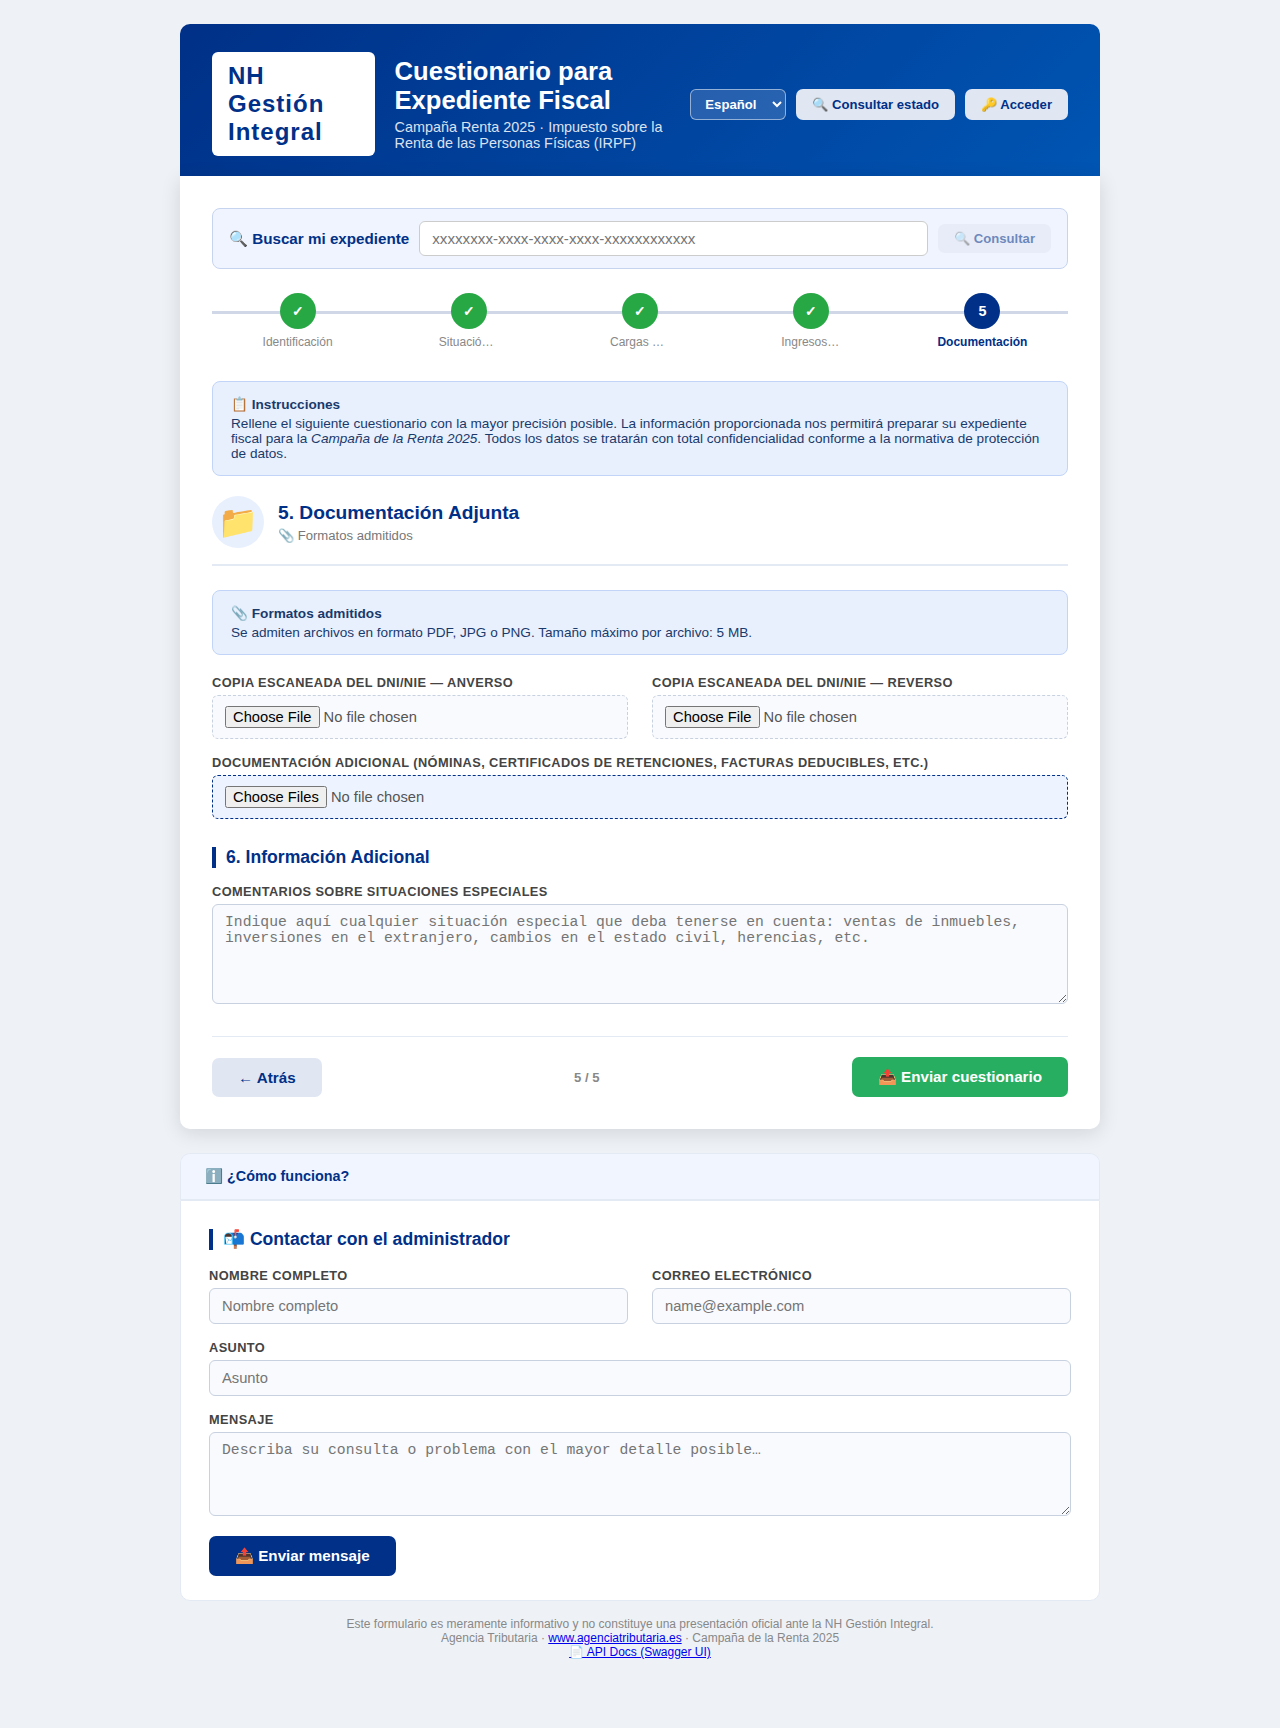
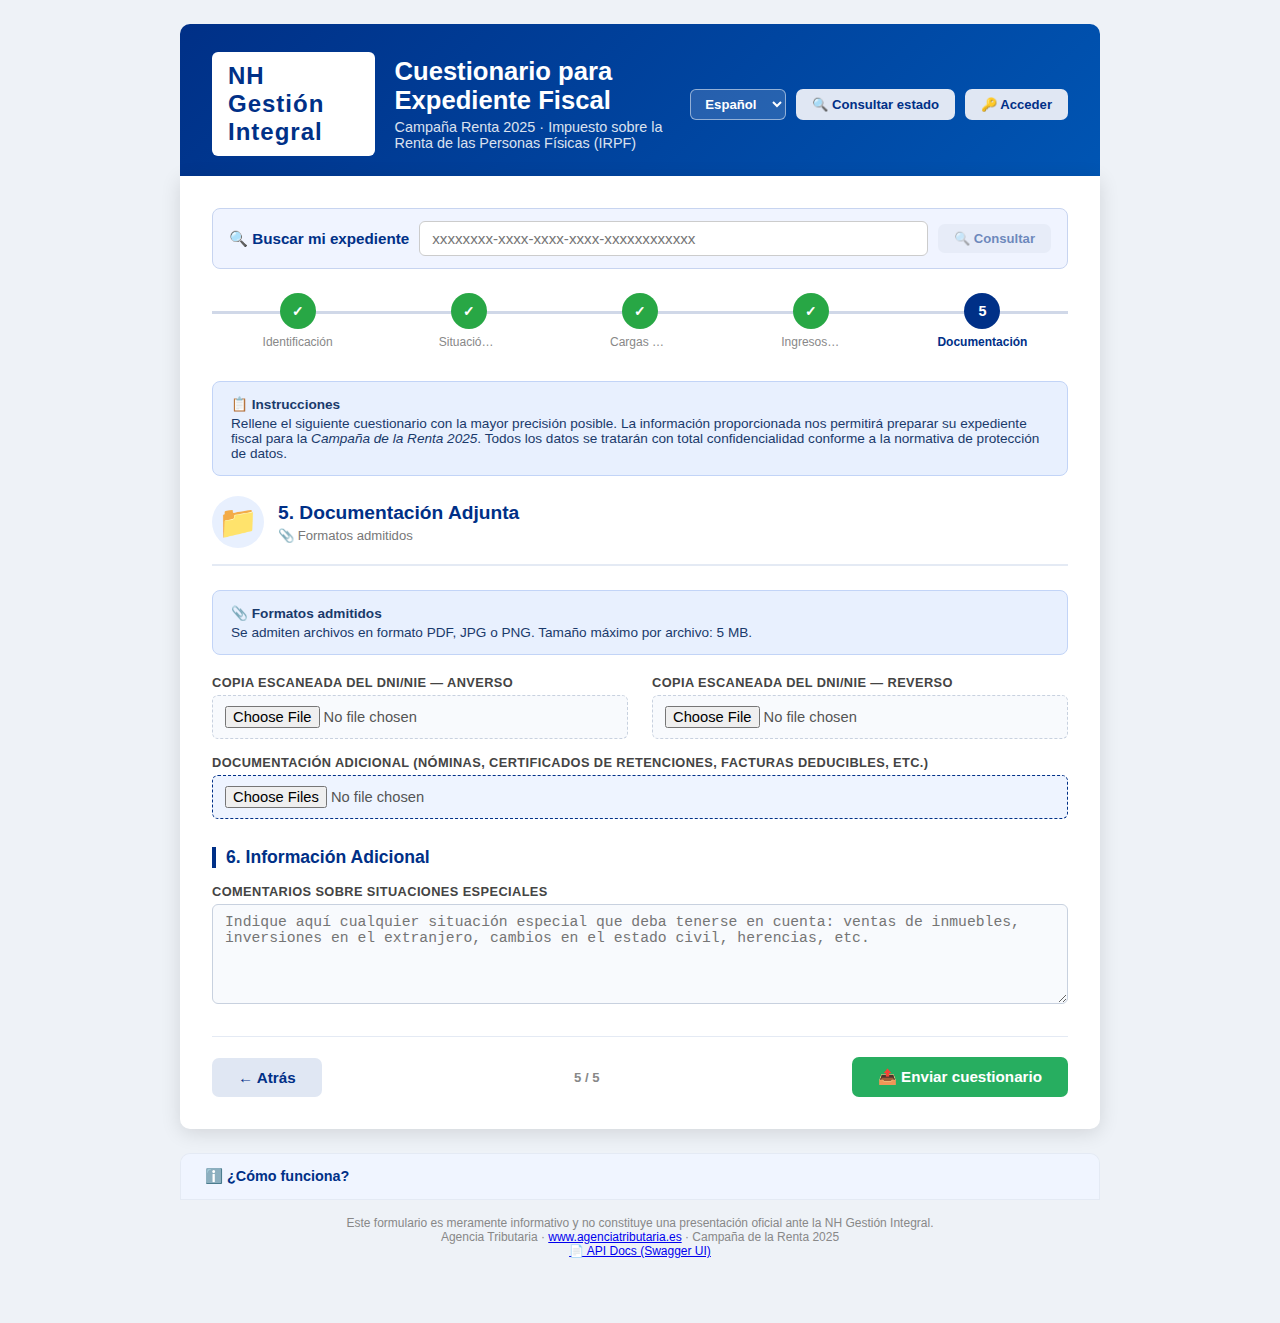
feat: remove contact form from Footer and regenerate all screenshots
Agent-Logs-Url: https://github.com/juanfranciscofernandezherreros/renta-form/sessions/0a9a8d07-eb82-4ff1-8769-8f53b4490795

Changed region(s): [[0.125, 0.0, 0.875, 0.9607], [0.6562, 0.7748, 0.875, 0.8677], [0.75, 0.5268, 0.7812, 0.5578]]

diff --git a/src/Footer.jsx b/src/Footer.jsx
@@ -1,8 +1,6 @@
 import { useState } from 'react'
 import { useLanguage } from './LanguageContext.jsx'
 
-const EMAIL_REGEX = /^[^\s@]+@[^\s@]+\.[^\s@]+$/
-
 const HOW_STEPS = [
   { titleKey: 'footerStep1Title', textKey: 'footerStep1Text', icon: '🔑' },
   { titleKey: 'footerStep2Title', textKey: 'footerStep2Text', icon: '📋' },
@@ -11,54 +9,9 @@ const HOW_STEPS = [
   { titleKey: 'footerStep5Title', textKey: 'footerStep5Text', icon: '📬' },
 ]
 
-const INITIAL_CONTACT = { name: '', email: '', subject: '', message: '' }
-
 export default function Footer({ showApiDocs = false }) {
   const { t } = useLanguage()
   const [howOpen, setHowOpen] = useState(false)
-  const [contactForm, setContactForm] = useState(INITIAL_CONTACT)
-  const [contactErrors, setContactErrors] = useState({})
-  const [contactSending, setContactSending] = useState(false)
-  const [contactSuccess, setContactSuccess] = useState(false)
-  const [contactError, setContactError] = useState(null)
-
-  const handleContactChange = e => {
-    const { name, value } = e.target
-    setContactForm(prev => ({ ...prev, [name]: value }))
-    setContactErrors(prev => ({ ...prev, [name]: null }))
-    setContactSuccess(false)
-    setContactError(null)
-  }
-
-  const validateContact = () => {
-    const errs = {}
-    if (!contactForm.name.trim()) errs.name = t('footerContactErrName')
-    if (!EMAIL_REGEX.test(contactForm.email.trim())) errs.email = t('footerContactErrEmail')
-    if (!contactForm.subject.trim()) errs.subject = t('footerContactErrSubject')
-    if (contactForm.message.trim().length < 10) errs.message = t('footerContactErrMessage')
-    return errs
-  }
-
-  const handleContactSubmit = async e => {
-    e.preventDefault()
-    const errs = validateContact()
-    if (Object.keys(errs).length) {
-      setContactErrors(errs)
-      return
-    }
-    setContactSending(true)
-    setContactError(null)
-    try {
-      // Simulate sending (no real backend endpoint for contact messages)
-      await new Promise(resolve => setTimeout(resolve, 900))
-      setContactSuccess(true)
-      setContactForm(INITIAL_CONTACT)
-    } catch {
-      setContactError(t('footerContactError'))
-    } finally {
-      setContactSending(false)
-    }
-  }
 
   return (
     <>
@@ -89,75 +42,6 @@ export default function Footer({ showApiDocs = false }) {
               </div>
             </div>
           )}
-        </div>
-
-        <div className="footer-section-contact">
-          <h2 className="footer-contact-title">{t('footerContactTitle')}</h2>
-
-          {contactSuccess && (
-            <div className="info-box footer-contact-success">{t('footerContactSuccess')}</div>
-          )}
-          {contactError && (
-            <div className="info-box info-box-error">{contactError}</div>
-          )}
-
-          <form onSubmit={handleContactSubmit} noValidate className="footer-contact-form">
-            <div className="form-grid">
-              <div className="field">
-                <label>{t('footerContactName')}</label>
-                <input
-                  type="text"
-                  name="name"
-                  value={contactForm.name}
-                  onChange={handleContactChange}
-                  placeholder={t('footerContactName')}
-                  required
-                />
-                {contactErrors.name && <span className="field-error">{contactErrors.name}</span>}
-              </div>
-              <div className="field">
-                <label>{t('footerContactEmail')}</label>
-                <input
-                  type="email"
-                  name="email"
-                  value={contactForm.email}
-                  onChange={handleContactChange}
-                  placeholder="name@example.com"
-                  required
-                />
-                {contactErrors.email && <span className="field-error">{contactErrors.email}</span>}
-              </div>
-              <div className="field full">
-                <label>{t('footerContactSubject')}</label>
-                <input
-                  type="text"
-                  name="subject"
-                  value={contactForm.subject}
-                  onChange={handleContactChange}
-                  placeholder={t('footerContactSubject')}
-                  required
-                />
-                {contactErrors.subject && <span className="field-error">{contactErrors.subject}</span>}
-              </div>
-              <div className="field full">
-                <label>{t('footerContactMessage')}</label>
-                <textarea
-                  name="message"
-                  value={contactForm.message}
-                  onChange={handleContactChange}
-                  placeholder={t('footerContactMessagePlaceholder')}
-                  rows={4}
-                  required
-                />
-                {contactErrors.message && <span className="field-error">{contactErrors.message}</span>}
-              </div>
-            </div>
-            <div className="btn-row">
-              <button type="submit" className="btn btn-primary" disabled={contactSending}>
-                {contactSending ? t('footerContactSending') : t('footerContactSend')}
-              </button>
-            </div>
-          </form>
         </div>
       </div>
 
